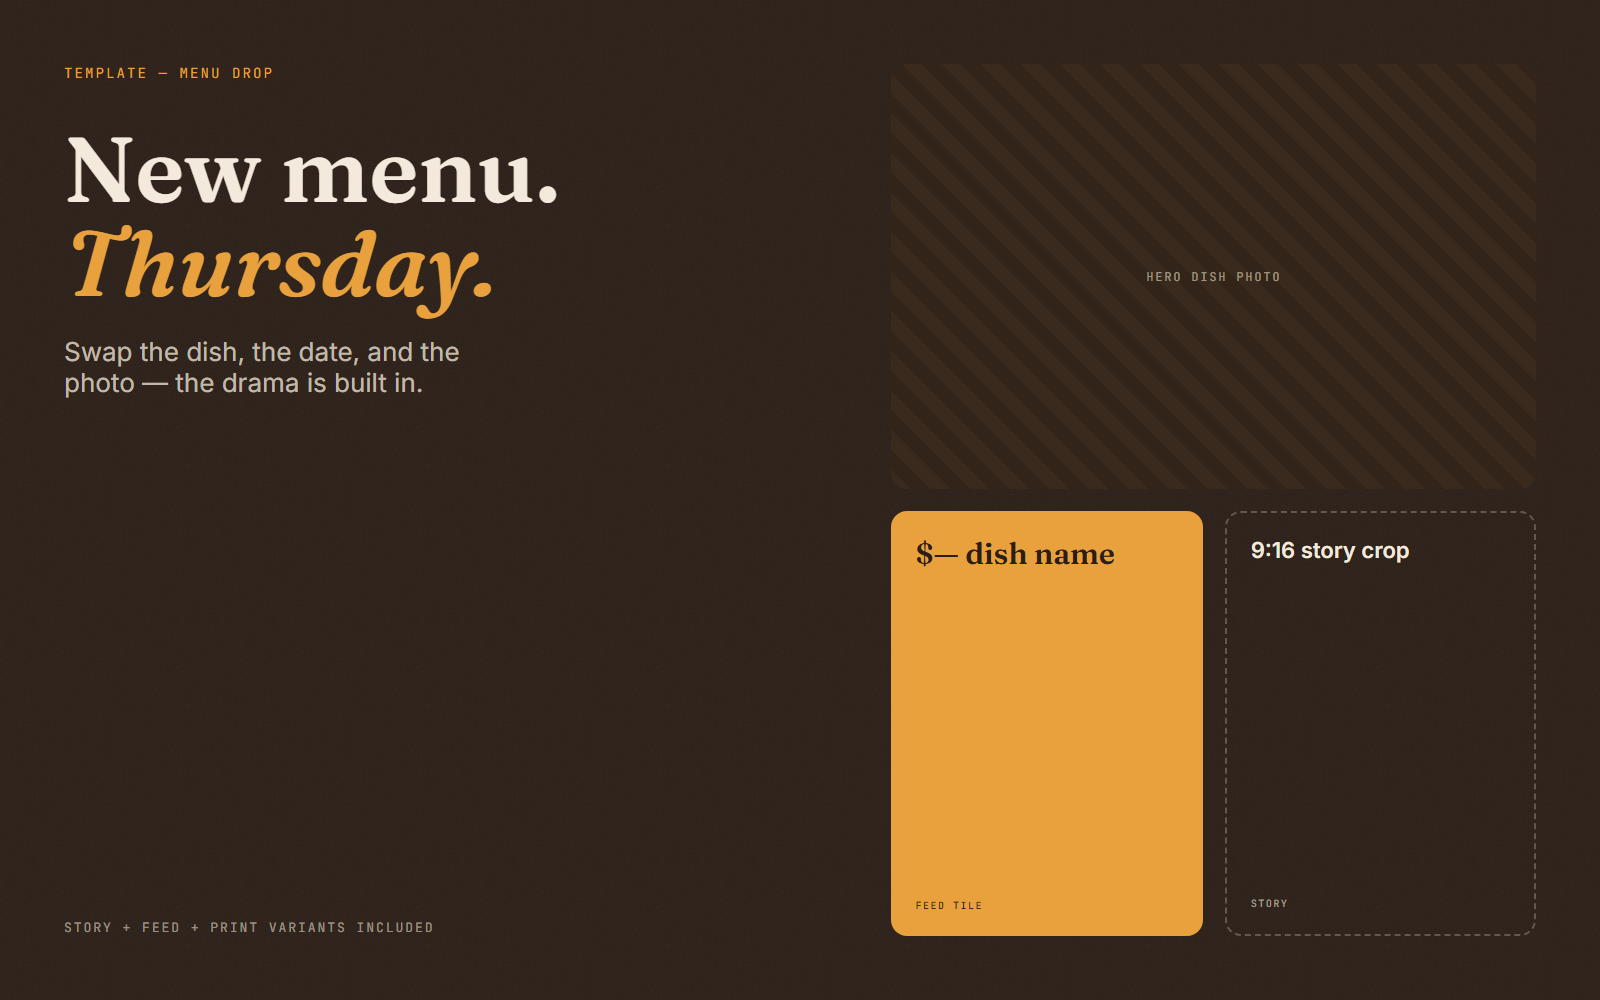
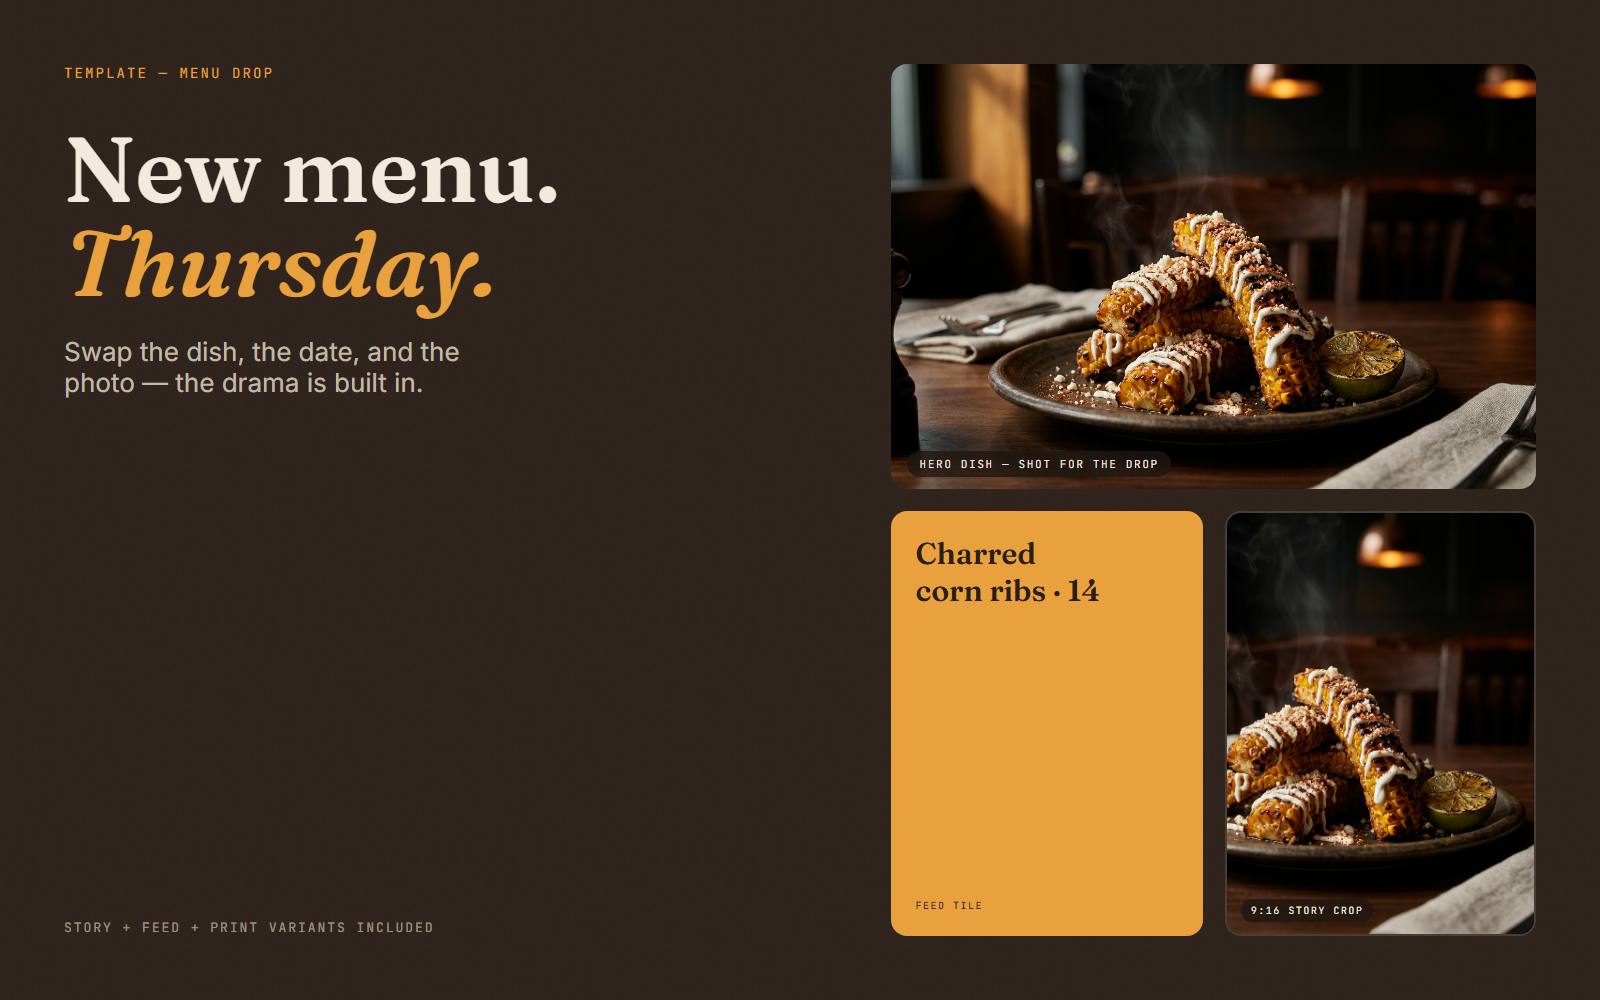
GD revamp: senior-level social + hospitality showcases, Sundry menu fix
- Social Media Systems -> 3-chapter story (Bones/Skin/Scale): new
  Sundry-skinned feed board, annotated conversion-carousel anatomy,
  one-template-four-brands matrix. Cover = Sundry feed.
- Hospitality Social Content -> 3-chapter story (Appetite First /
  One Launch One Arc / Weekly Engine): real art-directed photography
  (Higgsfield, labeled AI-assisted) in menu-drop + special boards,
  new Birria Tuesday 3-story campaign arc (concept venue).
- Sundry house-menu board redesigned: two menu sections fill the card
  (was half empty); brand-boards.mjs + gd-boards.mjs gained CLI filters.
- scripts/assets/: source photography for reproducible board renders.

Changed region(s): [[0.5312, 0.062, 0.9688, 0.961], [0.5625, 0.527, 0.6875, 0.62]]

diff --git a/data/projects.ts b/data/projects.ts
@@ -599,23 +599,47 @@ export const projects: Project[] = [
     id: "social-media-systems",
     type: "graphic-design",
     title: "Social Media Systems",
-    client: "Studio template systems",
+    client: "Studio design system",
     year: "2023–Present",
-    category: ["SOCIAL MEDIA", "TEMPLATE SYSTEMS", "CONTENT DESIGN"],
-    headline: "Template systems that keep brands consistent at posting speed.",
+    category: ["SOCIAL MEDIA", "DESIGN SYSTEMS", "CONTENT DESIGN"],
+    headline: "One architecture, twenty brands, zero drift — the system behind daily posting.",
     description:
-      "The framework craft behind managing 20+ agency accounts, distilled into reusable template systems — shown here as the studio's own framework sets.",
-    deliverables: ["Feed grid frameworks", "Carousel systems", "Quote & offer templates", "Content architecture"],
-    coverImage: "/images/gd/social-system-grid.png",
+      "The design system distilled from running social for 20+ concurrent agency accounts: a nine-slot content architecture, an annotated conversion carousel, and the brand-skin matrix that lets one template serve wildly different voices.",
+    deliverables: ["Nine-slot content architecture", "Conversion carousel system", "Brand-skin matrix", "Voice & tone application"],
+    coverImage: "/images/gd/sms-feed-sundry.png",
     featured: false,
     gallery: {
       context:
-        "Consistency at posting speed is a system problem, not a talent problem. These are the studio's template frameworks — the nine-slot grid architecture, carousel structures, and tile systems that let a brand publish daily without drifting off-model. Every client system starts from bones like these.",
-      tools: ["Figma", "Photoshop", "Illustrator"],
-      images: [
-        { src: "/images/gd/social-system-grid.png", label: "Feed grid framework — nine-slot system", aspect: "wide" },
-        { src: "/images/gd/social-quote-template.png", label: "Quote template", aspect: "square" },
-        { src: "/images/gd/social-carousel-template.png", label: "Carousel frames", aspect: "square" },
+        "Consistency at posting speed is a system problem, not a talent problem. This is the studio's social architecture shown three ways: the bones (the framework itself), the skin (one concept brand wearing it, end to end), and the scale (four brands on the same skeleton, none of them sounding alike). Concept application — photography is AI-assisted and art-directed in-studio.",
+      tools: ["Figma", "Photoshop", "Illustrator", "Art direction"],
+      chapters: [
+        {
+          kicker: "01 — The Bones",
+          heading: "Nine slots. Every post has a job.",
+          body: "A feed isn't nine pretty squares — it's nine jobs: hook, proof, value, offer, engagement, and one CTA per cycle, never more. The framework decides what each post is for before anyone opens a design tool, which is why it survives contact with real deadlines.",
+          images: [
+            { src: "/images/gd/social-system-grid.png", label: "The nine-slot architecture — every tile has a job", aspect: "wide" },
+          ],
+        },
+        {
+          kicker: "02 — The Skin",
+          heading: "The same system, wearing Sundry.",
+          body: "Bones don't sell coffee — voice does. Here the architecture is dressed in Sundry Coffee Co.: terracotta and bone, Fraunces italics, copy that sounds like the corner that remembers your order. Same nine jobs, now with a pulse. The carousel below shows the conversion arc slide by slide — with the reasoning annotated, because the thinking is the deliverable.",
+          images: [
+            { src: "/images/gd/sms-feed-sundry.png", label: "Sundry feed — the system with a voice", aspect: "wide" },
+            { src: "/images/gd/sms-carousel-anatomy.png", label: "Carousel anatomy — hook to CTA, annotated", aspect: "wide" },
+          ],
+        },
+        {
+          kicker: "03 — The Scale",
+          heading: "Four brands. Same bones. Different soul.",
+          body: "This is the test of a real system: swap the type, palette, and voice — never the architecture — and a coffee roaster, a brewery, a med-spa, and a gym can all post daily without drifting off-model. That's what made 20+ concurrent accounts survivable.",
+          images: [
+            { src: "/images/gd/sms-brand-matrix.png", label: "The brand-skin matrix — one template, four voices", aspect: "wide" },
+            { src: "/images/gd/social-quote-template.png", label: "Quote template — the reshare layout", aspect: "square" },
+            { src: "/images/gd/social-carousel-template.png", label: "Carousel frames — the swipe skeleton", aspect: "square" },
+          ],
+        },
       ],
     },
   },
@@ -623,24 +647,46 @@ export const projects: Project[] = [
     id: "hospitality-social-content",
     type: "graphic-design",
     title: "Hospitality Social Content",
-    client: "Studio template systems · F&B",
+    client: "Studio design system · F&B",
     year: "2023–Present",
-    category: ["SOCIAL MEDIA", "F&B", "TEMPLATE SYSTEMS"],
-    headline: "The content engine that keeps a venue fed, weekly.",
+    category: ["SOCIAL MEDIA", "F&B", "CAMPAIGN DESIGN"],
+    headline: "Appetite first, always — the content engine that fills tables.",
     description:
-      "Menu drops, event promos, specials, and a seven-day content calendar — the F&B template engine refined across live Australian venues, shown as the studio's framework set.",
-    deliverables: ["Menu drop templates", "Event promos", "Specials system", "Content calendar"],
+      "The F&B content engine refined across live Australian venues: appetite-led menu drops with real photography, a three-story campaign arc that turns one dish into a weekly ritual, and the seven-day calendar that keeps a venue fed without a designer on call.",
+    deliverables: ["Menu-drop system", "Campaign arc — tease, drop, service", "Weekly specials system", "Seven-day content calendar"],
     coverImage: "/images/gd/hosp-menu-drop.png",
     featured: false,
     gallery: {
       context:
-        "Restaurants don't need a designer on call — they need an engine. This is the studio's F&B content framework, the same architecture running behind venues like Junk Sunshine Coast: drop-in templates for menu launches, events, and specials, sequenced on a seven-slot weekly calendar.",
-      tools: ["Photoshop", "Figma", "Lightroom"],
-      images: [
-        { src: "/images/gd/hosp-menu-drop.png", label: "Menu drop template — three formats", aspect: "wide" },
-        { src: "/images/gd/hosp-event-story.png", label: "Event promo · 9:16", aspect: "tall" },
-        { src: "/images/gd/hosp-special-story.png", label: "Weekly special · 9:16", aspect: "tall" },
-        { src: "/images/gd/hosp-calendar.png", label: "Seven-day content calendar", aspect: "wide" },
+        "Nobody ever booked a table because of a layout — they booked because the food looked like that. The photography leads, the type serves, and every post has one job: get someone through the door this week. Concept application built on the studio's live-venue engine — photography is AI-assisted and art-directed in-studio; campaign shown for a concept venue.",
+      tools: ["Photoshop", "Figma", "Lightroom", "Art direction"],
+      chapters: [
+        {
+          kicker: "01 — Appetite First",
+          heading: "The photo does the selling. The type gets out of the way.",
+          body: "The menu-drop system is built around one rule: nothing competes with the dish. Real photography sits full-bleed, the price is typographic jewellery, and the drop lands in three formats — feed, story, print — from one layout. Swap the dish, the date, and the shot; the drama is built in.",
+          images: [
+            { src: "/images/gd/hosp-menu-drop.png", label: "Menu drop — feed, story & print from one system", aspect: "wide" },
+            { src: "/images/gd/hosp-special-story.png", label: "Weekly special · 9:16 — photo leads", aspect: "tall" },
+            { src: "/images/gd/hosp-event-story.png", label: "Event promo · 9:16 — the loud one", aspect: "tall" },
+          ],
+        },
+        {
+          kicker: "02 — One Launch, One Arc",
+          heading: "Birria Tuesday: tease, drop, last tables.",
+          body: "A dish launch isn't a post — it's a three-act story. The night before: anticipation. Drop day: one dish, one price, one rule. During service: scarcity you didn't have to invent, posted live from the pass. This is the arc that turns a Tuesday special into the reason Tuesday exists.",
+          images: [
+            { src: "/images/gd/hsc-launch-set.png", label: "The campaign arc — tease · drop · service", aspect: "wide" },
+          ],
+        },
+        {
+          kicker: "03 — The Weekly Engine",
+          heading: "Seven slots, so the kitchen never wonders what to post.",
+          body: "Rituals beat randomness. The calendar gives every day a job — menu hero Monday, the special midweek, events into the weekend — so the venue posts daily at service speed, and the feed reads like a place with a heartbeat instead of a brand doing homework.",
+          images: [
+            { src: "/images/gd/hosp-calendar.png", label: "The seven-day engine", aspect: "wide" },
+          ],
+        },
       ],
     },
   },